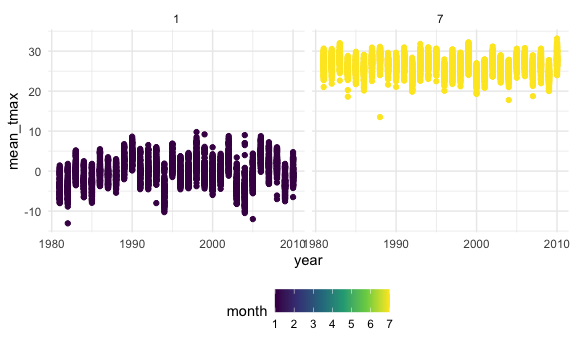
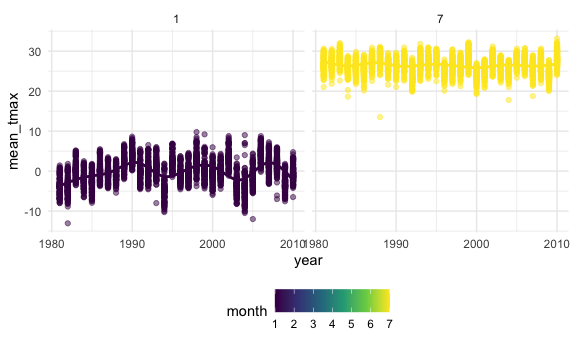
started problem 3 question 3.  difficulty with snow plot

diff --git a/p8105_hw3_jyc2171.md b/p8105_hw3_jyc2171.md
@@ -722,20 +722,122 @@ ny_noaa %>%
   ) %>%
   filter(month %in% c(01, 07)) %>% 
   ggplot(aes(x = year, y = mean_tmax, color = month)) +
-  geom_point() +
+  geom_point(alpha = .5) +
+  geom_smooth() +
   facet_grid(. ~ month)
 ```
 
     ## `summarise()` regrouping output by 'id', 'year' (override with `.groups` argument)
 
+    ## `geom_smooth()` using method = 'gam' and formula 'y ~ s(x, bs = "cs")'
+
+    ## Warning: Removed 5970 rows containing non-finite values (stat_smooth).
+
     ## Warning: Removed 5970 rows containing missing values (geom_point).
 
 <img src="p8105_hw3_jyc2171_files/figure-gfm/unnamed-chunk-16-1.png" width="90%" />
 
-The average maximum temperature in January is lower across the vast
-majority of weather stations compared to July.
+The average maximum temperature in January is significantly lower across
+the vast majority of weather stations compared to the maximum
+temperature in July. There appear to be a few outliers in the data. In
+January 1982, there was a mean tmax value of around -13 degrees C. In
+January of 1993, there was another mean tmax value of around -8 C. In
+January of 2005, there was another particularly cold mean tmax value of
+-12 C. One example of a particularly warm mean tmax in January was in
+1984, where there was a point value of around +9 C, but there were
+multiple point values that were clustered higher. For the month of July,
+there was one ostensibly colder point value of around 14 C.
 
 part 3 merging two separate plots (probably patchwork) first one -
 scatterplot is bad b/c too many datapoints. use hex plot, bin plot, etc.
 second plot - first need filtering step. then show a distribution: box
 plot, violin plot, ridge plot perhaps by year: 1981, 1982, 1983, etc.
+
+``` r
+## This is a subset of sampling to pilot my code
+
+## hex plot
+set.seed(44)
+ny_noaa %>% 
+  sample_n(10000) %>% 
+  separate(date, into = c("year", "month", "day")) %>% 
+  mutate(
+    year = as.integer(year),
+    month = as.integer(month),
+    day = as.integer(day),
+    tmax = as.integer(tmax),
+    tmin = as.integer(tmin),
+    prcp = prcp / 10,
+    tmax = tmax / 10,
+    tmin = tmin / 10,
+    prcp = as.integer(prcp),
+    tmax = as.integer(tmax),
+    tmin = as.integer(tmin),
+  ) %>% 
+  ggplot(aes(x = tmin, y = tmax, color = month)) +
+  geom_hex()
+
+## bin plot
+ny_noaa %>% 
+  sample_n(10000) %>% 
+  separate(date, into = c("year", "month", "day")) %>% 
+  mutate(
+    year = as.integer(year),
+    month = as.integer(month),
+    day = as.integer(day),
+    tmax = as.integer(tmax),
+    tmin = as.integer(tmin),
+    prcp = prcp / 10,
+    tmax = tmax / 10,
+    tmin = tmin / 10,
+    prcp = as.integer(prcp),
+    tmax = as.integer(tmax),
+    tmin = as.integer(tmin),
+  ) %>% 
+  ggplot(aes(x = tmin, y = tmax, color = month)) +
+  geom_bin2d()
+
+## density plot
+ny_noaa %>% 
+  sample_n(10000) %>% 
+  separate(date, into = c("year", "month", "day")) %>% 
+  mutate(
+    year = as.integer(year),
+    month = as.integer(month),
+    day = as.integer(day),
+    tmax = as.integer(tmax),
+    tmin = as.integer(tmin),
+    prcp = prcp / 10,
+    tmax = tmax / 10,
+    tmin = tmin / 10,
+    prcp = as.integer(prcp),
+    tmax = as.integer(tmax),
+    tmin = as.integer(tmin),
+  ) %>% 
+  ggplot(aes(x = tmin, y = tmax, color = month)) +
+  geom_density2d()
+
+## distribution of snowfall values greater than 0 and less than 100 separately by year
+library(ggridges)
+
+ny_noaa %>% 
+  sample_n(10000) %>% 
+  separate(date, into = c("year", "month", "day")) %>% 
+  mutate(
+    year = factor(year),
+    month = as.integer(month),
+    day = as.integer(day),
+    tmax = as.integer(tmax),
+    tmin = as.integer(tmin),
+    prcp = prcp / 10,
+    tmax = tmax / 10,
+    tmin = tmin / 10,
+    prcp = as.integer(prcp),
+    tmax = as.integer(tmax),
+    tmin = as.integer(tmin),
+  ) %>%
+  group_by(year) %>% 
+  filter(snow > 0, snow < 100) %>% 
+  ggplot(aes(x = year, y = snow)) +
+  geom_density_ridges(scale = .85)
+```
